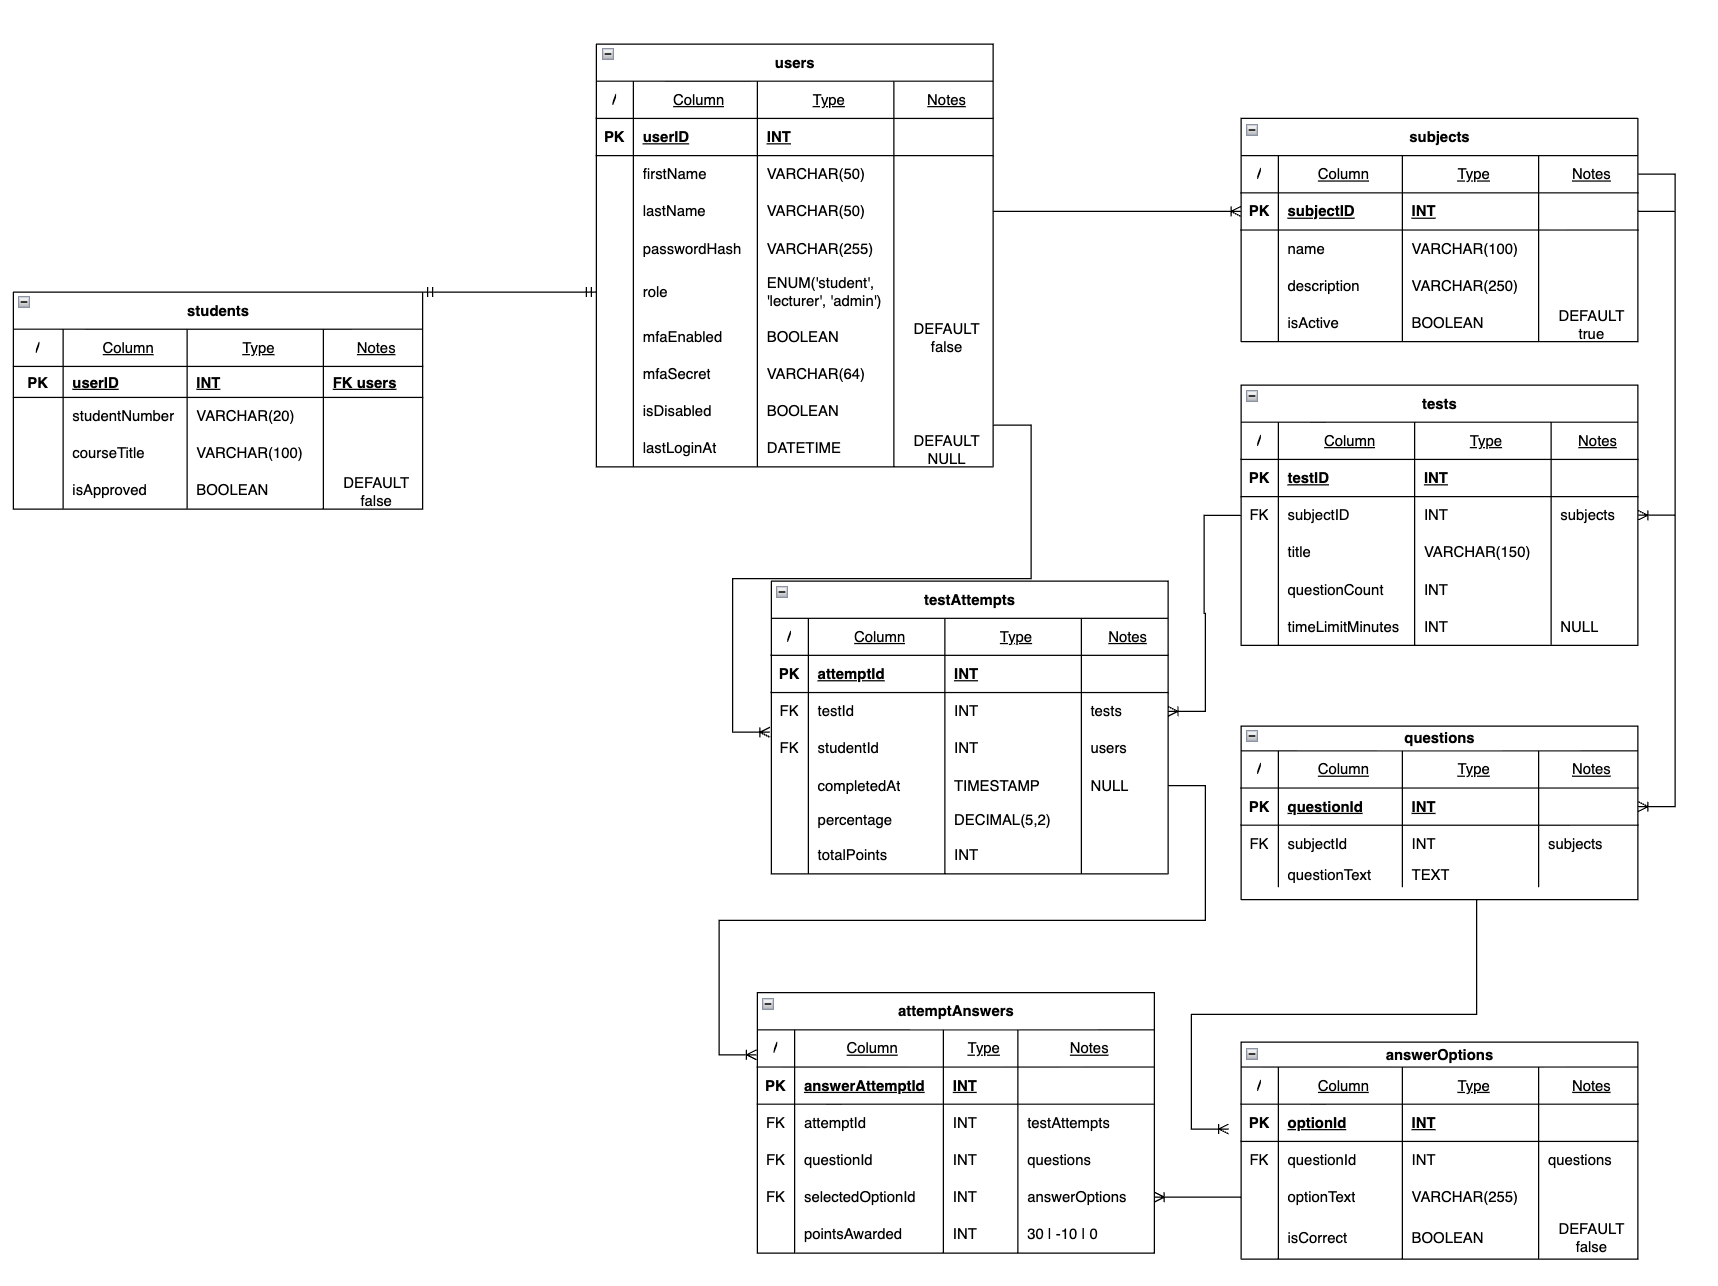
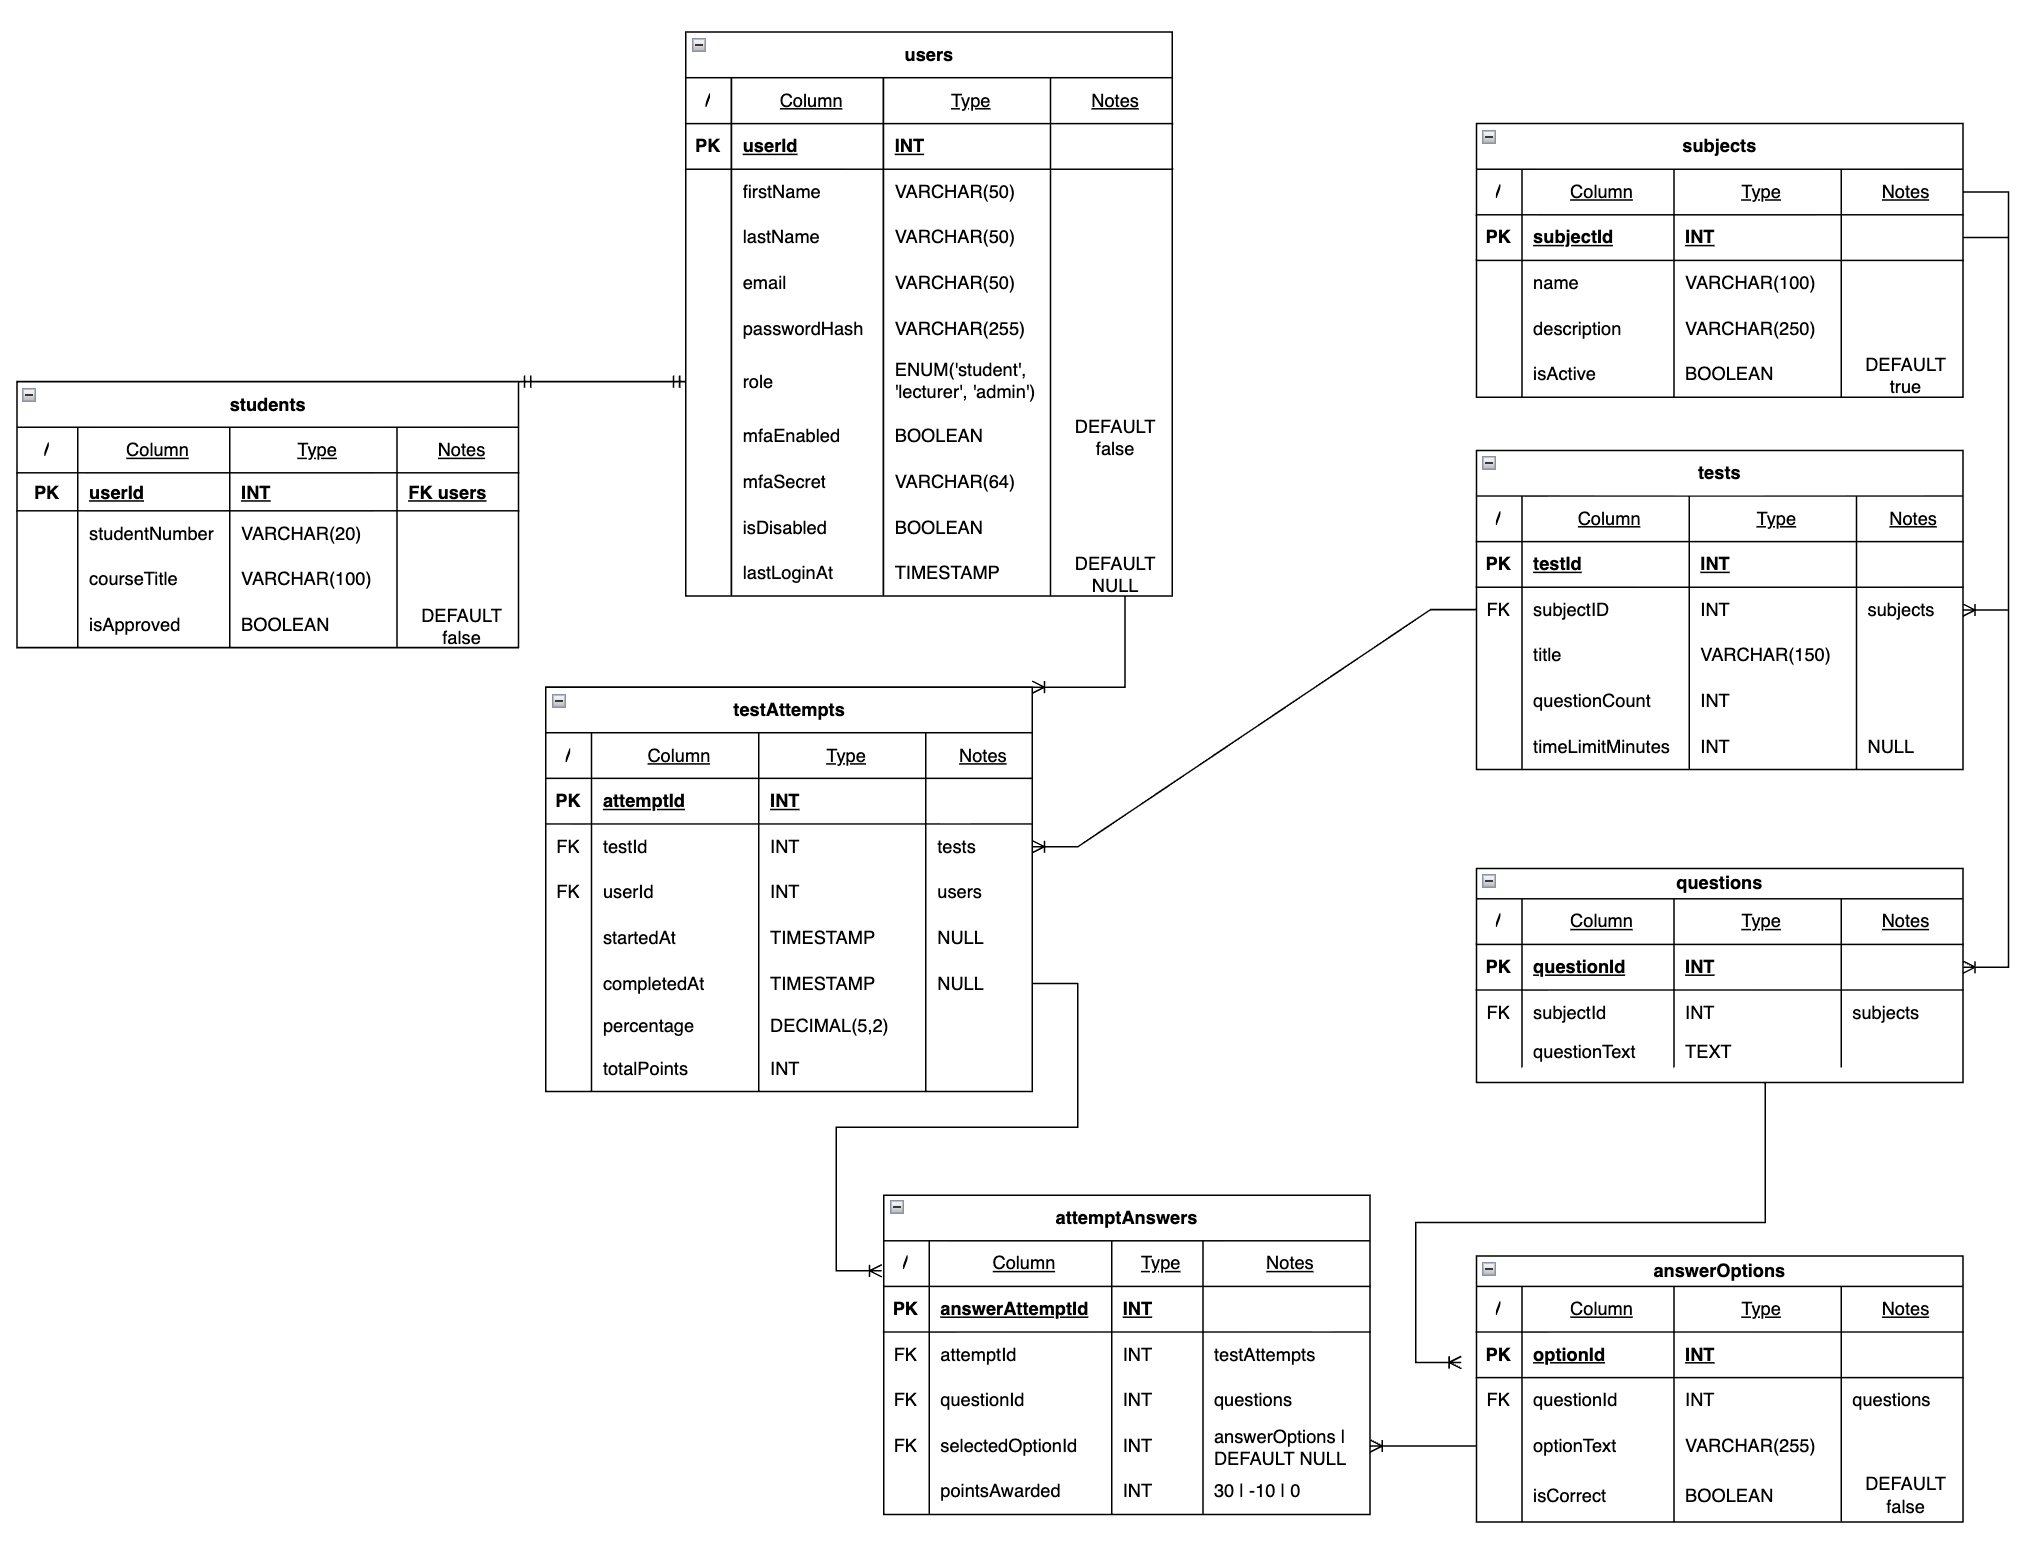
Updated ERD again.

diff --git a/design-doc/design-document.md b/design-doc/design-document.md
@@ -7,7 +7,7 @@
 
 # Logo
 
-Blue shark labs logo:
+Blue Shark Labs logo:
 
 <img src="logo.jpeg" alt="Company logo" width="200"/>
 
